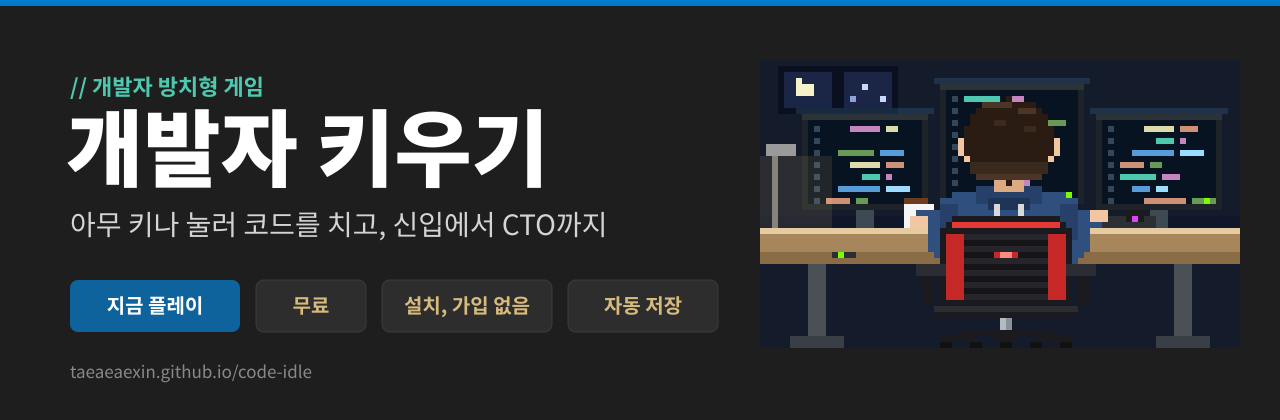
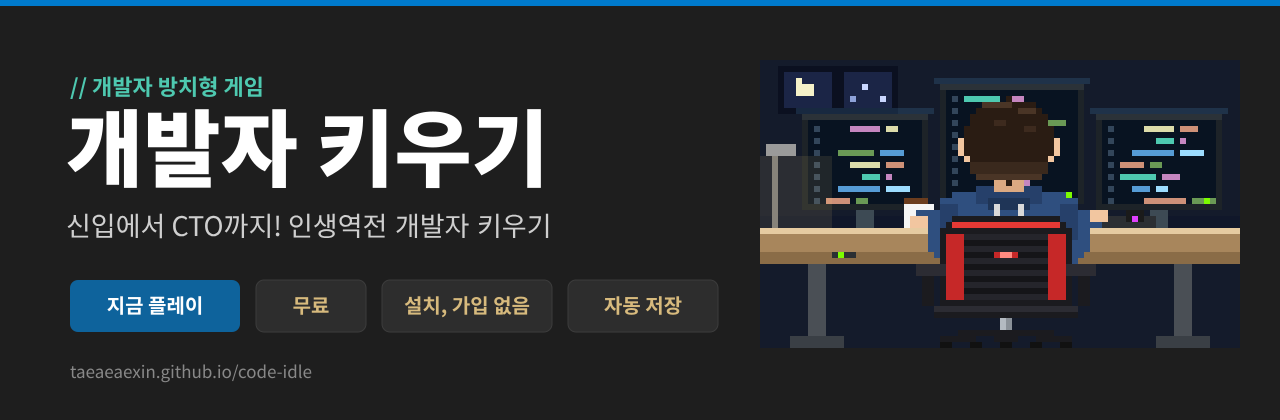
README 배너와 공유 문구를 새 설명으로
Claude-Session: https://claude.ai/code/session_01Lm9FKfrZt3exKYeewMEohF

Changed region(s): [[0.0312, 0.4952, 0.4688, 0.5881]]

diff --git a/README.md b/README.md
@@ -1,4 +1,4 @@
-<a href="https://taeaeaexin.github.io/code-idle/"><img src="docs/readme/banner.png" alt="개발자 키우기: 아무 키나 눌러 코드를 치고, 신입에서 CTO까지" width="100%"></a>
+<a href="https://taeaeaexin.github.io/code-idle/"><img src="docs/readme/banner.png" alt="개발자 키우기: 신입에서 CTO까지! 인생역전 개발자 키우기" width="100%"></a>
 
 <h3 align="center"><a href="https://taeaeaexin.github.io/code-idle/">▶ 지금 바로 플레이하기</a></h3>
 <p align="center">무료, 설치와 가입 없이 브라우저에서 바로. 진행 상황은 자동 저장됩니다.</p>
@@ -97,7 +97,7 @@
 게임 안 설정 탭에서 "내 기록 복사하기"를 누르면 직급, 작성한 코드 줄 수, 최고 서비스 가치가 담긴 문구가 복사됩니다. 아래 문구를 그대로 써도 좋아요.
 
 ```
-개발자 키우기: 아무 키나 눌러 코드를 치고 신입에서 CTO까지 가는 방치형 게임
+개발자 키우기: 신입에서 CTO까지! 인생역전 개발자 키우기
 https://taeaeaexin.github.io/code-idle/
 ```
 
